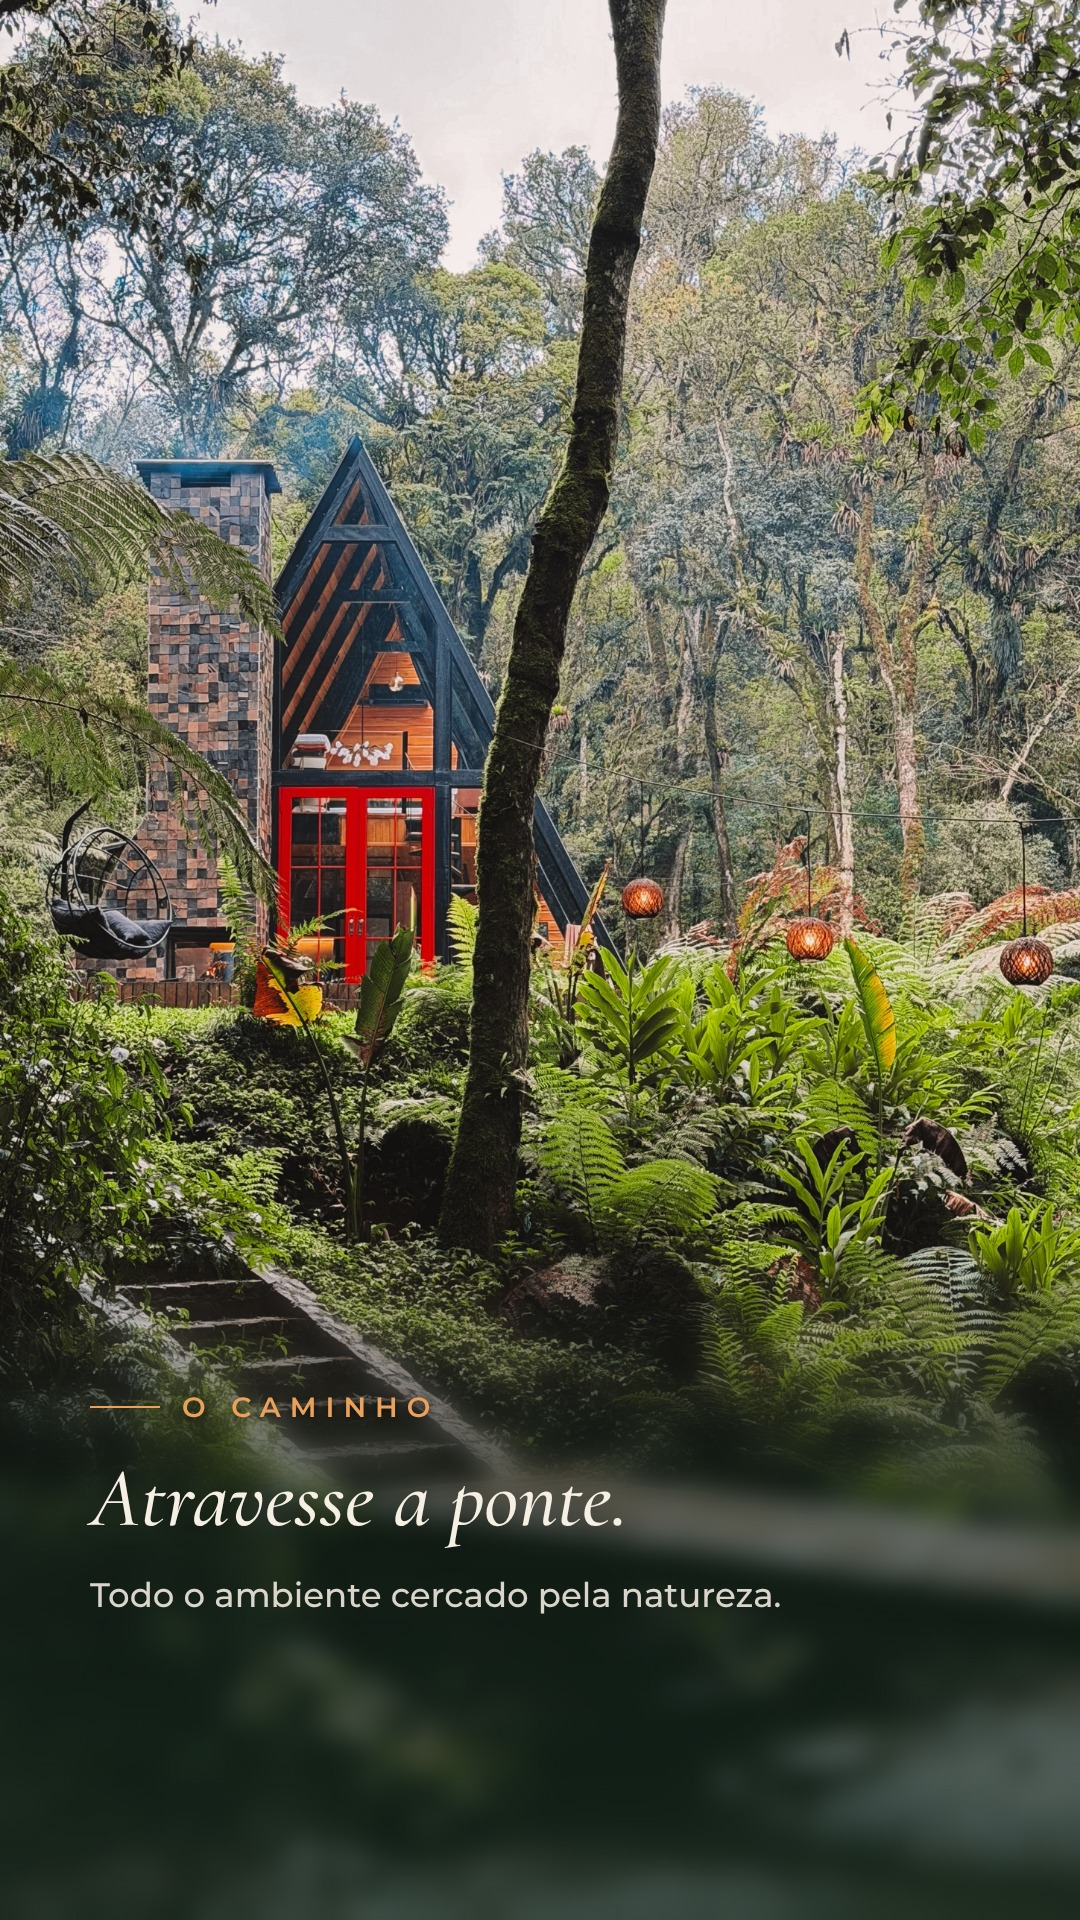
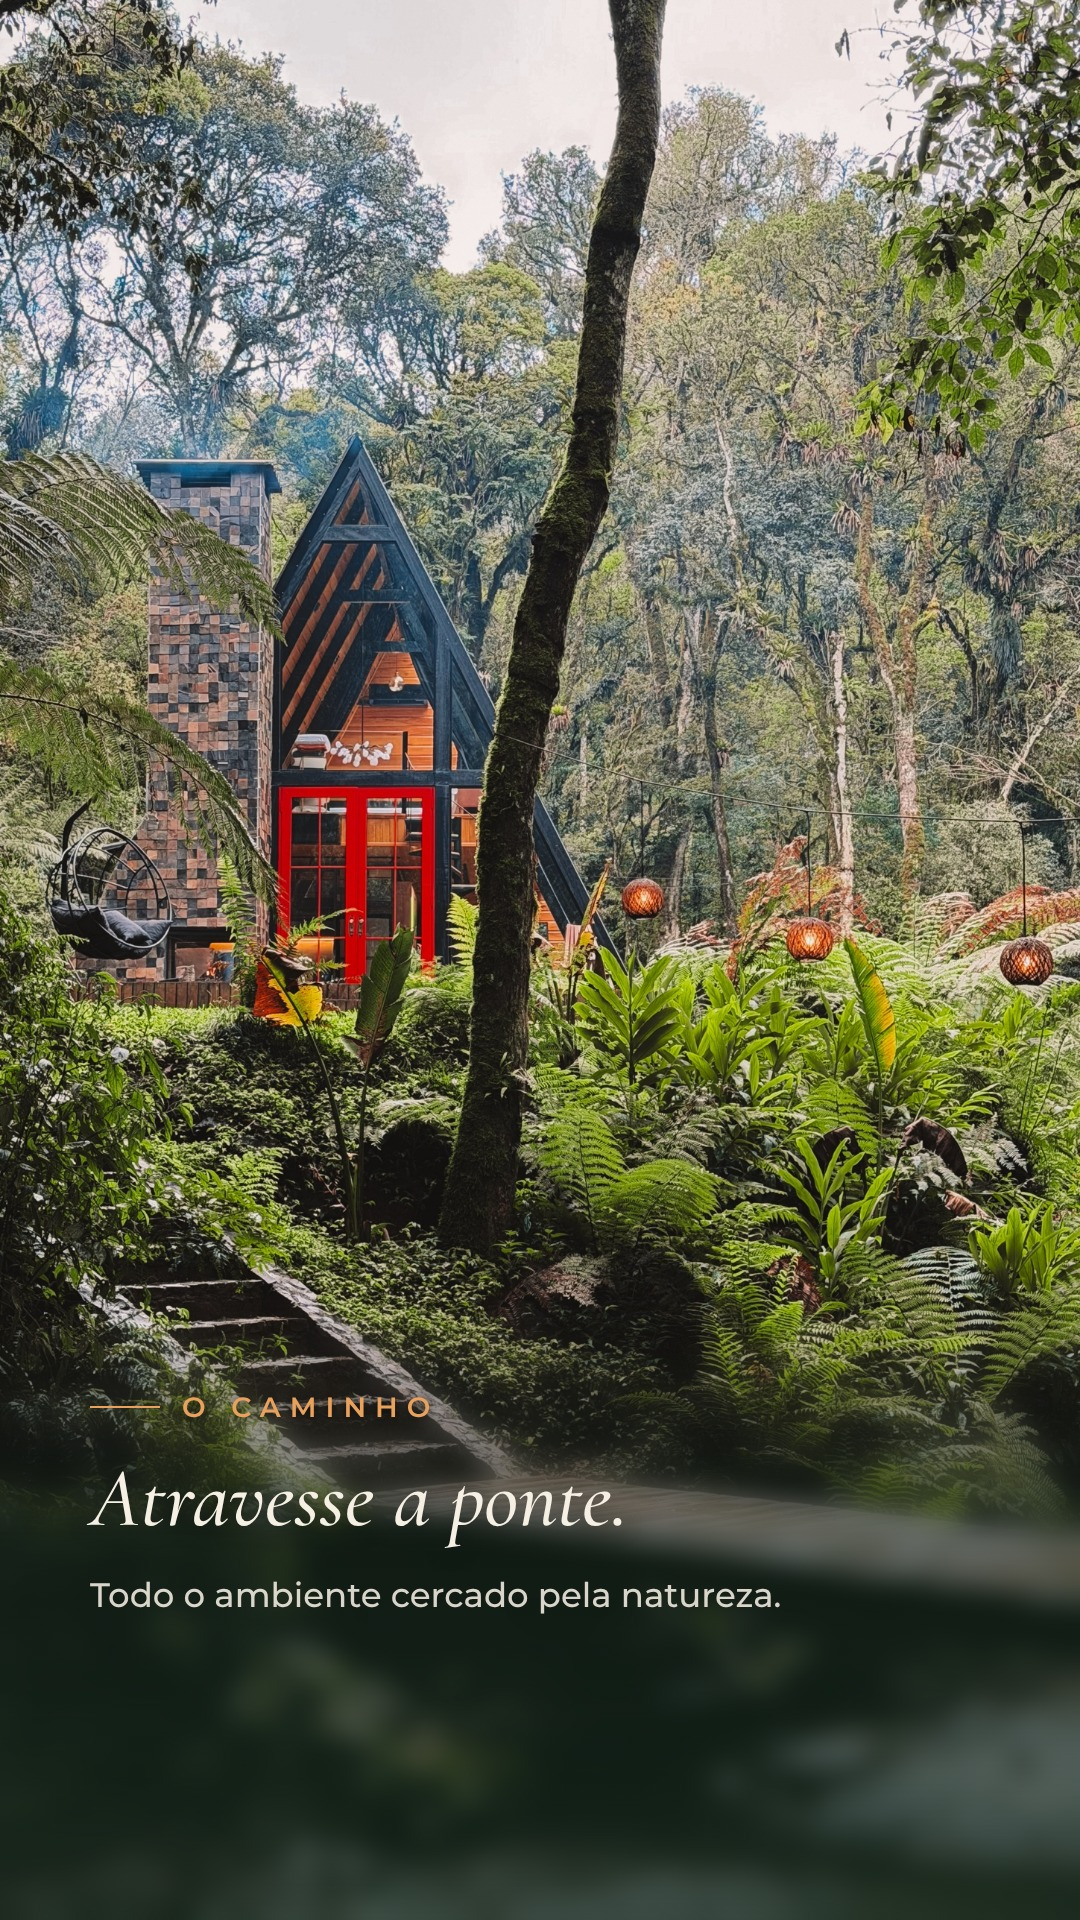
Stories: textos do topo mais altos
Claude-Session: https://claude.ai/code/session_01DGaSmMXhRVQXAQK6gDFrFo

diff --git a/stories-cabana/html/story-01.html b/stories-cabana/html/story-01.html
@@ -15,7 +15,7 @@ html, body { width:1080px; height:1920px; overflow:hidden; background:#0f1a14; }
   -webkit-mask-image:linear-gradient(0deg,#000 0%,#000 62%,transparent 100%); mask-image:linear-gradient(0deg,#000 0%,#000 62%,transparent 100%); }
 
 .box { position:absolute; left:90px; right:90px; color:#F6EFE4; }
-.box.top { top:230px; }
+.box.top { top:170px; }
 .box.low { bottom:300px; }
 .kicker { font-family:'Montserrat',sans-serif; font-weight:600; font-size:28px; letter-spacing:.32em;
   text-transform:uppercase; color:#E9A15B; display:flex; align-items:center; gap:22px; margin-bottom:30px; text-shadow:0 1px 10px rgba(0,0,0,.7); }
@@ -43,7 +43,7 @@ p { font-family:'Montserrat',sans-serif; font-weight:500; font-size:34px; line-h
 </style></head><body>
 <img class="bg" src="file:///home/user/Jean-Radeski-/stories-cabana/fotos/drone.jpg" style="object-position:center;transform:translateY(0px)">
 <div class="blur low" style="height:500px"></div><div class="rodape"><div class="trilho"></div><div class="pt first" style="left:0.0%"><span class="km">30 km</span><span class="nome">Videira</span></div><div class="pt " style="left:25.0%"><span class="km">60 km</span><span class="nome">Caçador</span></div><div class="pt " style="left:50.0%"><span class="km">85 km</span><span class="nome">Joaçaba</span></div><div class="pt " style="left:75.0%"><span class="km">370 km</span><span class="nome">Curitiba</span></div><div class="pt last" style="left:100.0%"><span class="km">420 km</span><span class="nome">Floripa</span></div></div>
-<div class="blur top" style="height:680px"></div>
+<div class="blur top" style="height:620px"></div>
 
 <div class="box top"><div class="kicker">Salto Veloso</div><h1>Uma experiência privativa<br>em meio à mata.</h1></div>
 </body></html>

diff --git a/stories-cabana/html/story-10.html b/stories-cabana/html/story-10.html
@@ -15,7 +15,7 @@ html, body { width:1080px; height:1920px; overflow:hidden; background:#0f1a14; }
   -webkit-mask-image:linear-gradient(0deg,#000 0%,#000 62%,transparent 100%); mask-image:linear-gradient(0deg,#000 0%,#000 62%,transparent 100%); }
 
 .box { position:absolute; left:90px; right:90px; color:#F6EFE4; }
-.box.top { top:230px; }
+.box.top { top:170px; }
 .box.low { bottom:300px; }
 .kicker { font-family:'Montserrat',sans-serif; font-weight:600; font-size:28px; letter-spacing:.32em;
   text-transform:uppercase; color:#E9A15B; display:flex; align-items:center; gap:22px; margin-bottom:30px; text-shadow:0 1px 10px rgba(0,0,0,.7); }
@@ -43,7 +43,7 @@ p { font-family:'Montserrat',sans-serif; font-weight:500; font-size:34px; line-h
 </style></head><body>
 <img class="bg" src="file:///home/user/Jean-Radeski-/stories-cabana/fotos/spa-mata.jpg" style="object-position:center 70%;transform:translateY(0px)">
 
-<div class="blur top" style="height:680px"></div>
+<div class="blur top" style="height:620px"></div>
 
 <div class="box top"><div class="kicker">Spa na mata</div><h1>Banheira e cama suspensa,<br>imerso na mata.</h1><p>Ao lado do rio, ao som das quedas d'água.</p></div>
 </body></html>

diff --git a/stories-cabana/html/story-03.html b/stories-cabana/html/story-03.html
@@ -15,7 +15,7 @@ html, body { width:1080px; height:1920px; overflow:hidden; background:#0f1a14; }
   -webkit-mask-image:linear-gradient(0deg,#000 0%,#000 62%,transparent 100%); mask-image:linear-gradient(0deg,#000 0%,#000 62%,transparent 100%); }
 
 .box { position:absolute; left:90px; right:90px; color:#F6EFE4; }
-.box.top { top:230px; }
+.box.top { top:170px; }
 .box.low { bottom:300px; }
 .kicker { font-family:'Montserrat',sans-serif; font-weight:600; font-size:28px; letter-spacing:.32em;
   text-transform:uppercase; color:#E9A15B; display:flex; align-items:center; gap:22px; margin-bottom:30px; text-shadow:0 1px 10px rgba(0,0,0,.7); }
@@ -43,7 +43,7 @@ p { font-family:'Montserrat',sans-serif; font-weight:500; font-size:34px; line-h
 </style></head><body>
 <img class="bg" src="file:///home/user/Jean-Radeski-/stories-cabana/fotos/cabana-noite.jpg" style="object-position:center 60%;transform:translateY(200px)">
 
-<div class="blur top" style="height:680px"></div>
+<div class="blur top" style="height:620px"></div>
 
 <div class="box top"><div class="kicker">Arquitetura A-frame</div><h1>Moderna, em vidro,<br>refletindo suas luzes quentes.</h1></div>
 </body></html>

diff --git a/stories-cabana/html/story-04.html b/stories-cabana/html/story-04.html
@@ -15,7 +15,7 @@ html, body { width:1080px; height:1920px; overflow:hidden; background:#0f1a14; }
   -webkit-mask-image:linear-gradient(0deg,#000 0%,#000 62%,transparent 100%); mask-image:linear-gradient(0deg,#000 0%,#000 62%,transparent 100%); }
 
 .box { position:absolute; left:90px; right:90px; color:#F6EFE4; }
-.box.top { top:230px; }
+.box.top { top:170px; }
 .box.low { bottom:300px; }
 .kicker { font-family:'Montserrat',sans-serif; font-weight:600; font-size:28px; letter-spacing:.32em;
   text-transform:uppercase; color:#E9A15B; display:flex; align-items:center; gap:22px; margin-bottom:30px; text-shadow:0 1px 10px rgba(0,0,0,.7); }
@@ -43,7 +43,7 @@ p { font-family:'Montserrat',sans-serif; font-weight:500; font-size:34px; line-h
 </style></head><body>
 <img class="bg" src="file:///home/user/Jean-Radeski-/stories-cabana/fotos/cama.jpg" style="object-position:center 60%;transform:translateY(0px)">
 
-<div class="blur top" style="height:680px"></div>
+<div class="blur top" style="height:620px"></div>
 
 <div class="box top"><div class="kicker">Futon com massagem</div><h1>Um futon perfeito, com vista<br>privilegiada para a mata.</h1></div>
 </body></html>

diff --git a/stories-cabana/html/story-02.html b/stories-cabana/html/story-02.html
@@ -15,7 +15,7 @@ html, body { width:1080px; height:1920px; overflow:hidden; background:#0f1a14; }
   -webkit-mask-image:linear-gradient(0deg,#000 0%,#000 62%,transparent 100%); mask-image:linear-gradient(0deg,#000 0%,#000 62%,transparent 100%); }
 
 .box { position:absolute; left:90px; right:90px; color:#F6EFE4; }
-.box.top { top:230px; }
+.box.top { top:170px; }
 .box.low { bottom:300px; }
 .kicker { font-family:'Montserrat',sans-serif; font-weight:600; font-size:28px; letter-spacing:.32em;
   text-transform:uppercase; color:#E9A15B; display:flex; align-items:center; gap:22px; margin-bottom:30px; text-shadow:0 1px 10px rgba(0,0,0,.7); }
@@ -43,7 +43,7 @@ p { font-family:'Montserrat',sans-serif; font-weight:500; font-size:34px; line-h
 </style></head><body>
 <img class="bg" src="file:///home/user/Jean-Radeski-/stories-cabana/fotos/ponte.jpg" style="object-position:center 40%;transform:translateY(0px)">
 
-<div class="blur low" style="height:680px"></div>
+<div class="blur low" style="height:620px"></div>
 
 <div class="box low"><div class="kicker">O caminho</div><h1>Atravesse a ponte.</h1><p>Todo o ambiente cercado pela natureza.</p></div>
 </body></html>

diff --git a/stories-cabana/html/story-06.html b/stories-cabana/html/story-06.html
@@ -15,7 +15,7 @@ html, body { width:1080px; height:1920px; overflow:hidden; background:#0f1a14; }
   -webkit-mask-image:linear-gradient(0deg,#000 0%,#000 62%,transparent 100%); mask-image:linear-gradient(0deg,#000 0%,#000 62%,transparent 100%); }
 
 .box { position:absolute; left:90px; right:90px; color:#F6EFE4; }
-.box.top { top:230px; }
+.box.top { top:170px; }
 .box.low { bottom:300px; }
 .kicker { font-family:'Montserrat',sans-serif; font-weight:600; font-size:28px; letter-spacing:.32em;
   text-transform:uppercase; color:#E9A15B; display:flex; align-items:center; gap:22px; margin-bottom:30px; text-shadow:0 1px 10px rgba(0,0,0,.7); }
@@ -43,7 +43,7 @@ p { font-family:'Montserrat',sans-serif; font-weight:500; font-size:34px; line-h
 </style></head><body>
 <img class="bg" src="file:///home/user/Jean-Radeski-/stories-cabana/fotos/cozinha.jpg" style="object-position:center 70%;transform:translateY(0px)">
 
-<div class="blur top" style="height:680px"></div>
+<div class="blur top" style="height:620px"></div>
 
 <div class="box top"><div class="kicker">Cozinha completa</div><h1>Para você não se<br>preocupar com nada.</h1></div>
 </body></html>

diff --git a/stories-cabana/html/story-11.html b/stories-cabana/html/story-11.html
@@ -15,7 +15,7 @@ html, body { width:1080px; height:1920px; overflow:hidden; background:#0f1a14; }
   -webkit-mask-image:linear-gradient(0deg,#000 0%,#000 62%,transparent 100%); mask-image:linear-gradient(0deg,#000 0%,#000 62%,transparent 100%); }
 
 .box { position:absolute; left:90px; right:90px; color:#F6EFE4; }
-.box.top { top:230px; }
+.box.top { top:170px; }
 .box.low { bottom:300px; }
 .kicker { font-family:'Montserrat',sans-serif; font-weight:600; font-size:28px; letter-spacing:.32em;
   text-transform:uppercase; color:#E9A15B; display:flex; align-items:center; gap:22px; margin-bottom:30px; text-shadow:0 1px 10px rgba(0,0,0,.7); }
@@ -43,7 +43,7 @@ p { font-family:'Montserrat',sans-serif; font-weight:500; font-size:34px; line-h
 </style></head><body>
 <img class="bg" src="file:///home/user/Jean-Radeski-/stories-cabana/fotos/banheira.jpg" style="object-position:center 70%;transform:translateY(0px)">
 
-<div class="blur top" style="height:680px"></div>
+<div class="blur top" style="height:620px"></div>
 
 <div class="box top"><div class="kicker">Um espaço para relaxar</div><h1>Entre samambaias,<br>sem pressa.</h1></div>
 </body></html>

diff --git a/stories-cabana/html/story-07.html b/stories-cabana/html/story-07.html
@@ -15,7 +15,7 @@ html, body { width:1080px; height:1920px; overflow:hidden; background:#0f1a14; }
   -webkit-mask-image:linear-gradient(0deg,#000 0%,#000 62%,transparent 100%); mask-image:linear-gradient(0deg,#000 0%,#000 62%,transparent 100%); }
 
 .box { position:absolute; left:90px; right:90px; color:#F6EFE4; }
-.box.top { top:230px; }
+.box.top { top:170px; }
 .box.low { bottom:300px; }
 .kicker { font-family:'Montserrat',sans-serif; font-weight:600; font-size:28px; letter-spacing:.32em;
   text-transform:uppercase; color:#E9A15B; display:flex; align-items:center; gap:22px; margin-bottom:30px; text-shadow:0 1px 10px rgba(0,0,0,.7); }
@@ -43,7 +43,7 @@ p { font-family:'Montserrat',sans-serif; font-weight:500; font-size:34px; line-h
 </style></head><body>
 <img class="bg" src="file:///home/user/Jean-Radeski-/stories-cabana/fotos/pizza.jpg" style="object-position:center 75%;transform:translateY(0px)">
 
-<div class="blur top" style="height:680px"></div>
+<div class="blur top" style="height:620px"></div>
 
 <div class="box top"><div class="kicker">Cardápio da cabana</div><h1>Opções congeladas<br>e deliciosas.</h1></div>
 </body></html>

diff --git a/stories-cabana/html/story-08.html b/stories-cabana/html/story-08.html
@@ -15,7 +15,7 @@ html, body { width:1080px; height:1920px; overflow:hidden; background:#0f1a14; }
   -webkit-mask-image:linear-gradient(0deg,#000 0%,#000 62%,transparent 100%); mask-image:linear-gradient(0deg,#000 0%,#000 62%,transparent 100%); }
 
 .box { position:absolute; left:90px; right:90px; color:#F6EFE4; }
-.box.top { top:230px; }
+.box.top { top:170px; }
 .box.low { bottom:300px; }
 .kicker { font-family:'Montserrat',sans-serif; font-weight:600; font-size:28px; letter-spacing:.32em;
   text-transform:uppercase; color:#E9A15B; display:flex; align-items:center; gap:22px; margin-bottom:30px; text-shadow:0 1px 10px rgba(0,0,0,.7); }
@@ -43,7 +43,7 @@ p { font-family:'Montserrat',sans-serif; font-weight:500; font-size:34px; line-h
 </style></head><body>
 <img class="bg" src="file:///home/user/Jean-Radeski-/stories-cabana/fotos/risoto.jpg" style="object-position:center 60%;transform:translateY(0px)">
 
-<div class="blur top" style="height:680px"></div>
+<div class="blur top" style="height:620px"></div>
 
 <div class="box top"><div class="kicker">Praticidade</div><h1>Opções práticas e<br>prontas para fazer.</h1></div>
 </body></html>

diff --git a/stories-cabana/html/story-05.html b/stories-cabana/html/story-05.html
@@ -15,7 +15,7 @@ html, body { width:1080px; height:1920px; overflow:hidden; background:#0f1a14; }
   -webkit-mask-image:linear-gradient(0deg,#000 0%,#000 62%,transparent 100%); mask-image:linear-gradient(0deg,#000 0%,#000 62%,transparent 100%); }
 
 .box { position:absolute; left:90px; right:90px; color:#F6EFE4; }
-.box.top { top:230px; }
+.box.top { top:170px; }
 .box.low { bottom:300px; }
 .kicker { font-family:'Montserrat',sans-serif; font-weight:600; font-size:28px; letter-spacing:.32em;
   text-transform:uppercase; color:#E9A15B; display:flex; align-items:center; gap:22px; margin-bottom:30px; text-shadow:0 1px 10px rgba(0,0,0,.7); }
@@ -43,7 +43,7 @@ p { font-family:'Montserrat',sans-serif; font-weight:500; font-size:34px; line-h
 </style></head><body>
 <img class="bg" src="file:///home/user/Jean-Radeski-/stories-cabana/fotos/hidro.jpg" style="object-position:center 30%;transform:translateY(0px)">
 
-<div class="blur low" style="height:680px"></div>
+<div class="blur low" style="height:620px"></div>
 
 <div class="box low"><div class="kicker">Hidromassagem</div><h1>Um banho com<br>vista para a floresta.</h1></div>
 </body></html>

diff --git a/stories-cabana/html/story-09.html b/stories-cabana/html/story-09.html
@@ -15,7 +15,7 @@ html, body { width:1080px; height:1920px; overflow:hidden; background:#0f1a14; }
   -webkit-mask-image:linear-gradient(0deg,#000 0%,#000 62%,transparent 100%); mask-image:linear-gradient(0deg,#000 0%,#000 62%,transparent 100%); }
 
 .box { position:absolute; left:90px; right:90px; color:#F6EFE4; }
-.box.top { top:230px; }
+.box.top { top:170px; }
 .box.low { bottom:300px; }
 .kicker { font-family:'Montserrat',sans-serif; font-weight:600; font-size:28px; letter-spacing:.32em;
   text-transform:uppercase; color:#E9A15B; display:flex; align-items:center; gap:22px; margin-bottom:30px; text-shadow:0 1px 10px rgba(0,0,0,.7); }

diff --git a/stories-cabana/gerar.py b/stories-cabana/gerar.py
@@ -60,7 +60,7 @@ html, body { width:1080px; height:1920px; overflow:hidden; background:#0f1a14; }
   -webkit-mask-image:linear-gradient(0deg,#000 0%,#000 62%,transparent 100%); mask-image:linear-gradient(0deg,#000 0%,#000 62%,transparent 100%); }
 
 .box { position:absolute; left:90px; right:90px; color:#F6EFE4; }
-.box.top { top:230px; }
+.box.top { top:170px; }
 .box.low { bottom:300px; }
 .kicker { font-family:'Montserrat',sans-serif; font-weight:600; font-size:28px; letter-spacing:.32em;
   text-transform:uppercase; color:#E9A15B; display:flex; align-items:center; gap:22px; margin-bottom:30px; text-shadow:0 1px 10px rgba(0,0,0,.7); }
@@ -108,7 +108,7 @@ def html(foto, pos, faixa, kicker, titulo, apoio, extra, n, total):
     return f"""<!doctype html><html><head><meta charset="utf-8"><style>{CSS}</style></head><body>
 <img class="bg" src="{(FOTOS / foto).as_uri()}" style="object-position:{pos};transform:translateY({extra.get('descer', 0)}px)">
 {rodape}
-<div class="blur {faixa}" style="height:{extra.get('h', 680)}px"></div>
+<div class="blur {faixa}" style="height:{extra.get('h', 620)}px"></div>
 {inset}
 <div class="box {faixa}"><div class="kicker">{kicker}</div><h1>{titulo}</h1>{apoio_html}{cta}</div>
 </body></html>"""
